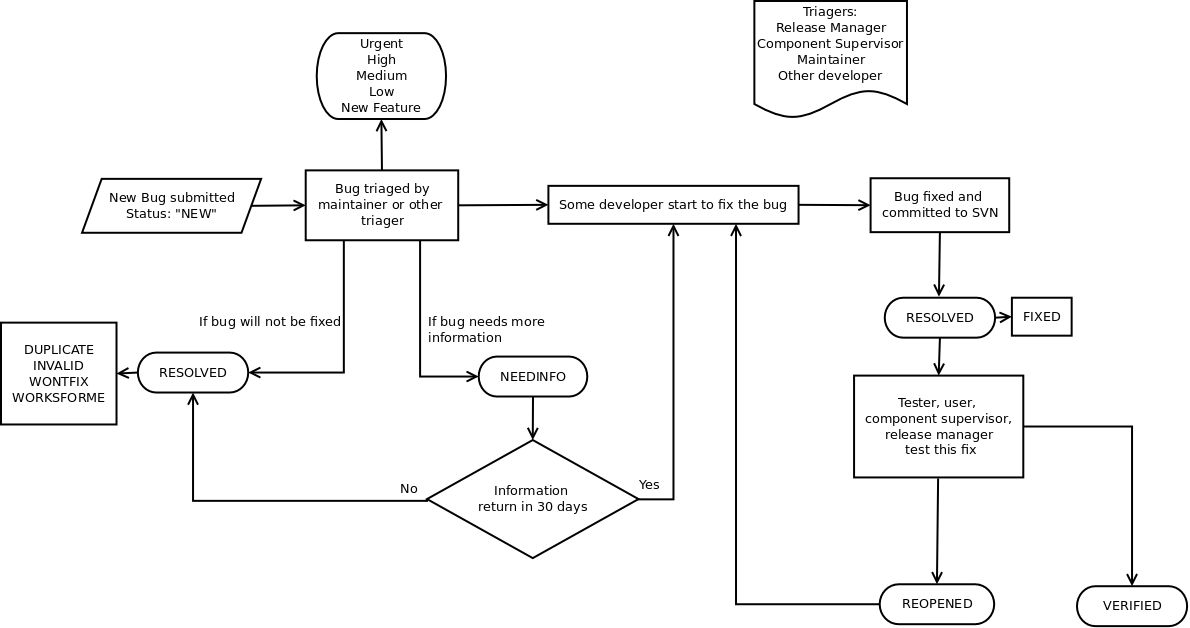
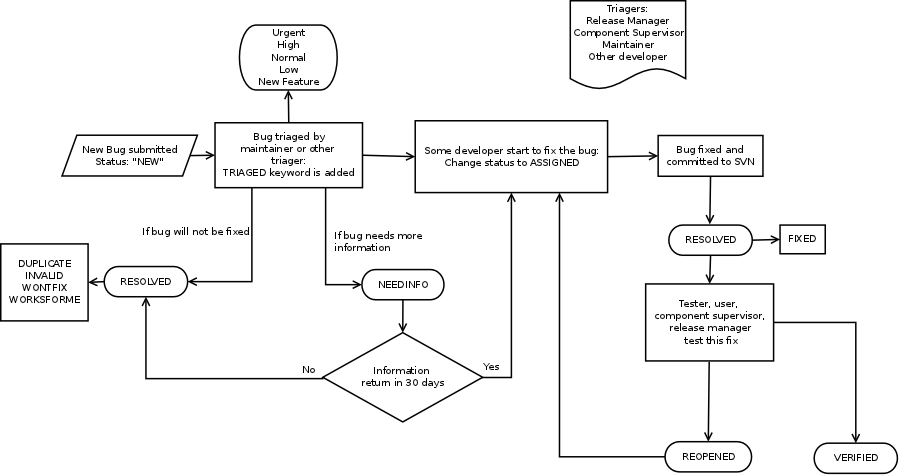
bug cycle and triage updated.

diff --git a/guides/bugtracking/howto_bug_triage.rst b/guides/bugtracking/howto_bug_triage.rst
@@ -7,7 +7,7 @@ Starting Bug Triage
 
 :Author: Semen Cirit
 
-:Version: 0.1
+:Version: 0.2
 
 Choosing Bugs
 -------------
@@ -21,16 +21,28 @@ Understanding Bugzilla
 
     * See `bug cycle`_
 
+Bug Importance
+--------------
+
+We use four types of bug importances and give each a specific meaning and time interval:
+
+- **Urgent:** `Freeze, panics`_ and crashes_ that reproducible on all type of systems and makes the whole system unusable and **security** related bugs. These bugs should fixed promptly.
+- **High:** bugs that are reproducible on all type of systems and makes the program unusable (packages which are totally unusable and have missing dependency, like being uninstallable or crashing_ on startup, bugs cause that cause loss of user data). These bugs should be fixed in 1 months.
+- **Normal:** bugs that are reproducible on all type of systems and makes a part of the program unusable. These bugs are probably be fixed in 6 months.
+- **New feature:** new feature requests. These requests will probably be done for the next release.
+- **Low:** the others - a cosmetic problem, such as a misspelled word or misaligned text or an enhancement, bugs that are not reproducible on all systems. These bugs are not schduled to fix in the next 6 months. This is not the same as planning not to fix the bug; it means that we don't know when we will fix it, if at all.
+
+**Notes:**  Hardware specific bugs generally seemed as urgent, but it should be generally high. Because urgent severity is used when the entire distribution does not work, but a bug restricted to a specific hardware usually has a high severity.
+
+
 Check list for bugs have NEW status
 -----------------------------------
 
-This checklist is used for bugs which have NEW status.
+This checklist is used for bugs which have **NEW** status.
 
 #. Does the bug report mention about a real bug?
 
     * In some cases, users need some help about configuring or using software. These reports are not related with bug or feature request. These type of reports should be closed with RESOLVED/INVALID resolution, and a polite comment should be give in order to guide user to related forums or mail lists.
-    * New package request severities should be "Low"
-    * New feature request severties should be "newfeature"
 
 #. Is the bug product and component right?
 
@@ -40,7 +52,7 @@ This checklist is used for bugs which have NEW status.
 
 #. Has the bug a duplicate?
 
-    * If so, the less informed bug resolution should be set as "RESOLVED/DUPLICATE" with bug number of the most detailed report and `related stock response <http://developer.pardus.org.tr/guides/bugtracking/stock_responses.html#duplicate-bugs>`_ is gived as a comment.
+    * If so, the less informed bug resolution should be set as **RESOLVED/DUPLICATE** with bug number of the most detailed report and `related stock response <http://developer.pardus.org.tr/guides/bugtracking/stock_responses.html#duplicate-bugs>`_ is gived as a comment.
     * If it is not clear that a bug is a duplicate of another bug, please politeliy convince reporter with your comment.
     * For additional help: :ref:`finding-duplicates`.
     * Also:
@@ -60,7 +72,7 @@ This checklist is used for bugs which have NEW status.
 #. Is there enough information for developer to fix the bug?
 
     * If not,
-          * Request for more information from the reporter (please be polite). Leave the bug status as "NEW" and state "NEEDINFO" as a keyword.
+          * Request for more information from the reporter (please be polite). Leave the bug status as **NEW** and state **NEEDINFO** as a keyword.
           * Please add your own idea to the comment. This idea generally comes into mind, while trying to reproduce the bug. Additionaly you can comment according to attachments.
     * Look `Gather information from specific Bugs <http://developer.pardus.org.tr/guides/bugtracking/bug_and_feature_requests.html#gather-information-for-specific-bugs>`_ for necessary bug information:
           * Are the steps for reproduce explained clearly?
@@ -69,30 +81,22 @@ This checklist is used for bugs which have NEW status.
 
 #. Do the summary helps the bug?
 
-    * If the summary part is far away from the meaning of the bug or confusing, feel free to change it. 
+    * If the summary part is far away from the meaning of the bug or confusing, feel free to change it.
     * Please try not to change the idea of the reporter.
 
 #. Which severity should I use?
 
-    During bug triage process, it is very important to state bug severity. Most bugs assigned with severity "normal", but the severity of the bug should change related to following criterias.
-
-    * Urgent: Bugs which make the whole system unusable.
-    * High: Bugs which make the program unusable
-    * Normal: Bugs which make a part of the program unusable.
-    * Low: A cosmetic problem, such as a misspled word or missaligned text or an enhancement
-    * New Features: New feature requests.
-
-    Hardware specific bugs generally seemed as urgent, but it should be generally high. Because urgent severity is used when the entire distribution does not work, but a bug restricted to a specific hardware usually has a high severity.
+    During bug triage process, it is very important to state bug severity. Most bugs assigned with severity **Normal**, but the severity of the bug should change related to different `bug importances`_.
 
 #. Is the bug a blocker bug? (For release tracker bugs)
 
-    Only ongoing releases has tracker bugs. If a bug is a tracker bug of one of the ongoing release it should be fixed before the release time. When it did not fix, it delays the release. Therefore the bug numbers which has a power to block the release should be set to "Depends on" part of release tracker bug. 
+    Only ongoing releases has tracker bugs. If a bug is a tracker bug of one of the ongoing release it should be fixed before the release time. When it did not fix, it delays the release. Therefore the bug numbers which has a power to block the release should be set to "Depends on" part of release tracker bug.
 
 #. How to resolve bugs?
 
-    Many bugs can be fixed unintentially or by upstream. If you realised that the bug is fixed by an update, mark it "RESOLVED/FIXED".
+    Many bugs can be fixed unintentially or by upstream. If you realised that the bug is fixed by an update, mark it **RESOLVED/FIXED**.
 
-    When a bug fixed by its maintainers, the bug will be marked as "RESOLVED/FIXED" autmatically via commit messages.
+    When a bug fixed by its maintainers, the bug will be marked as **RESOLVED/FIXED** autmatically via commit messages.
 
 #. How to handle bugs in multiple releases?
 
@@ -115,9 +119,9 @@ This checklist is used for bugs which have NEW status.
 
     #. If this is a reproducible bug for the original reporter, you can try to experience the bug yourself.
 
-        - If it can be reproducible only for the release reaches its end of life, relove the bug as "RESOLVED/INVALID".
+        - If it can be reproducible only for the release reaches its end of life, relove the bug as **RESOLVED/INVALID**.
         - If the bug can be reproduced for the stable and test repository release at the same time, this is evidence that the bug is not due to a specific configuration or hardware.
-        - If the bug can be reproduced for the stable repository release but not for test repository release this is strong evidence that the bug has already been fixed. Give a bug comment that "this bug will be fixed after the package merges to stable". You can resolve the bug as "RESOLVED/FIXED"
+        - If the bug can be reproduced for the stable repository release but not for test repository release this is strong evidence that the bug has already been fixed. Give a bug comment that "this bug will be fixed after the package merges to stable". You can resolve the bug as **RESOLVED/FIXED**
         - If the bug cannot be reproduced for the stable repository release, this is strong evidence that the bug is due to something different in the environment of the reporter.
             - Make sure that the reporter system is up to date
             - Make sure that you are using exactly the same method to reproduce the bug as the reporter.
@@ -139,15 +143,15 @@ This checklist is used for bugs which have NEW status.
         * `Gnome Bugzilla <https://bugzilla.gnome.org/>`_
         * `Xfce Bugzilla <http://bugzilla.xfce.org/>`_
 
-.. Mark as triaged
-.. ----------------
+Mark as triaged
+----------------
 
-.. If you finish triage, you should add "TRIAGED" keyword, in order to avoid retriage.
+If you finish triage, you should add **TRIAGED** keyword, in order to avoid retriage.
 
 Pursuance
 ---------
 
-If you set a NEEDINFO keyword in a bug, you have to control the bug during 30 days if the reporter or other commenter give an additional information in order to reproduce the bug, you have to remove "NEEDINFO" keyword. If any user return the bug durin 30 days bug will automatically closed.
+If you set a **NEEDINFO** keyword in a bug, you have to control the bug during 30 days if the reporter or other commenter give an additional information in order to reproduce the bug, you have to remove "NEEDINFO" keyword. If any user return the bug durin 30 days bug will automatically closed.
 
 
 EOL Bug Triage
@@ -156,7 +160,7 @@ EOL Bug Triage
 For bugs filed against Pardus releases that have reached their End of Life (EOL):
 
     * If the bug appears to be occurring in a more recent (non-EOL) version, update the version number and leave the bug open,
-    * Otherwise, mark the bug CLOSED/WONTFIX and add the `EOL stock response <http://developer.pardus.org.tr/guides/bugtracking/stock_responses.html#end-of-life-eol-product>`_.
+    * Otherwise, mark the bug **CLOSED/WONTFIX** and add the `EOL stock response <http://developer.pardus.org.tr/guides/bugtracking/stock_responses.html#end-of-life-eol-product>`_.
 
 
 General Advice
@@ -172,3 +176,8 @@ General Advice
     * Use :ref:`stock-responses` as appropriate.
 
 .. _bug cycle: http://developer.pardus.org.tr/guides/bugtracking/bug_cycle.html
+.. _bug importances: http://developer.pardus.org.tr/guides/bugtracking/howto_bug_triage.html#bug-importance
+.. _Freeze, panics: http://developer.pardus.org.tr/guides/bugtracking/bug_and_feature_requests.html?highlight=crash#freeze-and-panics
+.. _crashes: http://developer.pardus.org.tr/guides/bugtracking/bug_and_feature_requests.html?highlight=crash#crashes
+.. _crashing: http://developer.pardus.org.tr/guides/bugtracking/bug_and_feature_requests.html?highlight=crash#crashes
+

diff --git a/guides/bugtracking/bug_cycle.rst b/guides/bugtracking/bug_cycle.rst
@@ -5,7 +5,7 @@
 
 :Author: Semen Cirit
 
-:Version: 0.1
+:Version: 0.2
 
 Bug Cycle
 =========
@@ -14,43 +14,43 @@ Bug Cycle
 
 This document gives information about Pardus bug tracking system process. The process that manage from Pardus bugzilla: package review, new contributor, security process are not included in this process.
 
-    #. When the bug is newly submitted it takes "NEW" status.
+    #. When the bug is newly submitted it takes **NEW** status.
         Some details needed when repoting a bug, see http://bugs.pardus.org.tr/page.cgi?id=bug-writing.html
 
-    #. After the bug is submitting, if it needs additional information , the bug status left the same but the "NEEDINFO" keyword is added.
-    #. If the bug does not need any additional information:
-        #. The triager can change the severity:
-            - Severity is used to set how sewere the bug is. It can be set by a triager, but the triagers may not rechange the severity, when the assignee and/or package maintainer change the initial severity level chosen by the triager.
-            - Severities should be changed with following guidance:
-                - Urgent: the bug makes whole system unusable
-                - High: the bug makes the program unusable
-                - Normal: a real bug which makes program more difficult to use and a part of the program unusable.
-                - Low: A cosmetic problem, such as a misspelled word or misaligned text or an enhancement.
-                - New feature: new feature requests
-        #. If the bug is an insolubale bug:
-            - WONTFIX: Bugs are not related to Pardus and will never be fixed
-            - DUPLICATE: Bugs which have duplicates which are already been reported
-            - LATER: Bugs can be fixed for the next release or for a later time
-            - INVALID: Bugs that are not realy a bug
-            - WORKSFORME: Bugs could not be reproduced
-            - NEXTRELEASE: Bugs fixed in next release
+    #. Triage starts:
+        #. After the bug is submitting, if it needs additional information , the bug status left the same but the **NEEDINFO** keyword is added.
+        #. If the bug does not need any additional information:
+            #. The triager can change the severity:
+                - Severity is used to set how sewere the bug is. It can be set by a triager, but the triagers may not rechange the severity, when the assignee and/or package maintainer change the initial severity level chosen by the triager.
+                - Severities should be changed with following `bug importance`_ guide.
+            #. If the bug is an insolubale bug:
+                - WONTFIX: Bugs are not related to Pardus and will never be fixed
+                - DUPLICATE: Bugs which have duplicates which are already been reported
+                - LATER: Bugs can be fixed for the next release or for a later time
+                - INVALID: Bugs that are not realy a bug
+                - WORKSFORME: Bugs could not be reproduced
+                - NEXTRELEASE: Bugs fixed in next release
 
-        #. Bugs set as a tracker bug of a release only by release managers or related component supervisor.
-
+            #. Bugs set as a tracker bug of a release by only release managers or related component supervisor.
+    #. When triage is finished, the **TRIAGED** keyword is given.
+    #. When a developer starts to deal with the bug he/she changes the status to **ASSIGNED**.
     #. If the bug fixed by its developer,
 
         When the developer has been sure that the bug fixed, he/she should be fixed bug via SVN commits:
 
-          The SVN commit should include "BUG:FIXED:<BUGID>"
+          The SVN commit should include::
 
-        This commmit will automatically change the resolution of the bug as "RESOLVED/FIXED"
+            "BUG:FIXED:<BUGID>"
+
+        This commmit will automatically change the resolution of the bug as **RESOLVED/FIXED**
 
     #. The bug fixed program will pass the stable repository test process:
-        #. If the bug reproducible, the bug resolution is changed to "REOPENED"
-        #. If the bug can not be reproducible, it is left "RESOLVED/FIXED"
+        #. If the bug reproducible, the bug resolution is changed to **REOPENED**
+        #. If the bug can not be reproducible, it is left **RESOLVED/FIXED**
         #. If new bugs found during stable repository tests, it should be reported by testers.
 
-    #  "REOPENED" bugs are reviewed again by assignee and will be fixed.
+    #. **REOPENED** bugs are reviewed again by assignee and will be fixed.
 
 
+.. _bug importance: http://developer.pardus.org.tr/guides/bugtracking/howto_bug_triage.html#bug-importance
 
